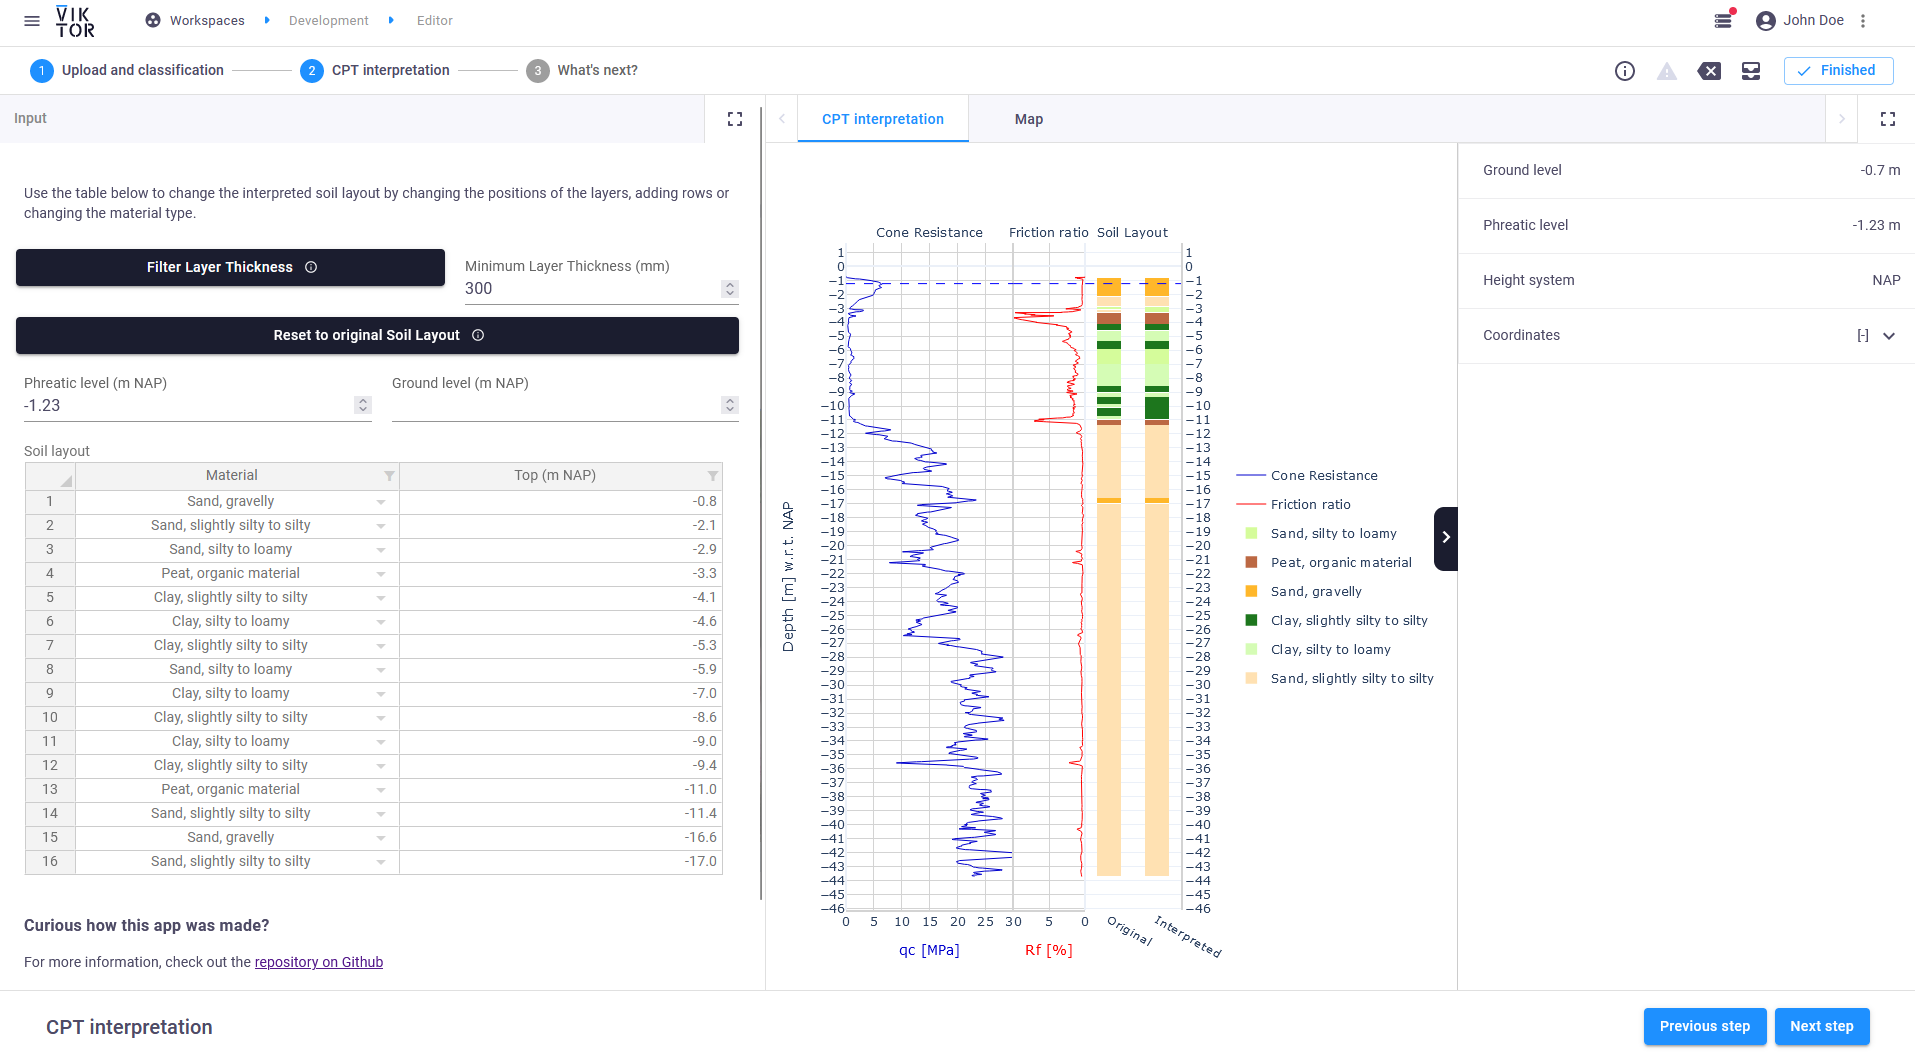
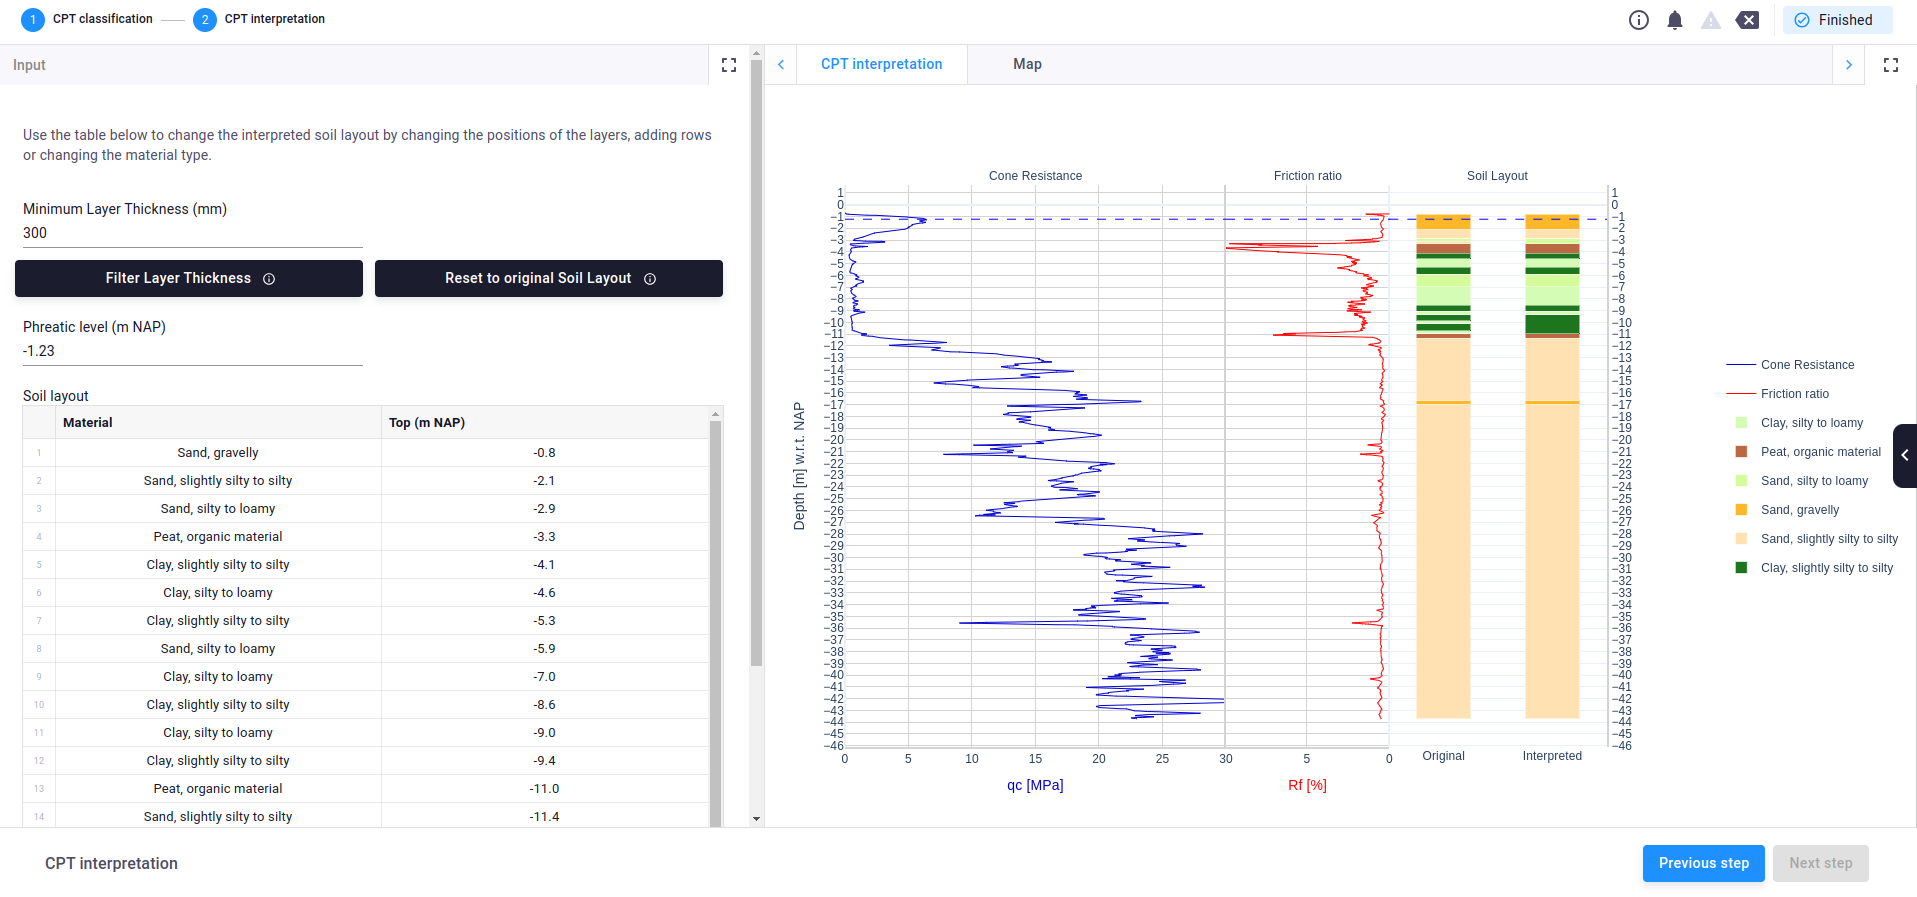
cleanup

diff --git a/app/controller.py b/app/controller.py
@@ -31,7 +31,7 @@ from viktor.views import (
     PlotlyAndDataView,
 )
 
-from .parametrization import CPTFileParametrization
+from .parametrization import Parametrization
 from .soil_layout_conversion_functions import (
     Classification,
     convert_input_table_field_to_soil_layout,
@@ -42,23 +42,23 @@ from .visualisation import visualise_cpt
 
 
 class CPTFileController(ViktorController):
-    """Controller class which acts as interface for the Sample entity type."""
-
     label = "CPT File"
-    parametrization = CPTFileParametrization(width=40)
+    parametrization = Parametrization(width=40)
 
     def classify_soil_layout(self, params, **kwargs) -> SetParametersResult:
         """Classify the CPT file when it is first uploaded"""
         if params.classification.get_sample_gef_toggle:
-            _file = self._get_sample_gef_file()
+            file = self._get_sample_gef_file()
         else:
             file_resource = params.classification.gef_file
             if not file_resource:
                 raise UserError("Upload and select a GEF file.")
-            _file = file_resource.file
-        cpt_file = GEFFile(_file.getvalue("ISO-8859-1"))
+            file = file_resource.file
+
+        cpt_file = GEFFile(file.getvalue("ISO-8859-1"))
         classification = Classification(params["classification"])
         results = classification.classify_cpt_file(cpt_file)
+
         return SetParametersResult(results)
 
     @staticmethod
@@ -97,11 +97,8 @@ class CPTFileController(ViktorController):
         headers = params.get("headers")
         if not headers:
             raise UserError("GEF file has no headers")
-        try:
-            x_coordinate, y_coordinate = params.x_rd, params.y_rd
-        except AttributeError:
-            x_coordinate, y_coordinate = headers.x_y_coordinates
 
+        x_coordinate, y_coordinate = headers.x_y_coordinates
         return DataGroup(
             ground_level_wrt_reference_m=DataItem(
                 "Ground level", headers.ground_level_wrt_reference_m or -999, suffix="m"
@@ -124,28 +121,29 @@ class CPTFileController(ViktorController):
         progress_message("Filtering thin layers from soil layout")
 
         # Create SoilLayout
-        bottom_of_soil_layout_user = params.get("bottom_of_soil_layout_user")
         classification = Classification(params.classification)
         soil_layout_user = convert_input_table_field_to_soil_layout(
             bottom_of_soil_layout_user=params["bottom_of_soil_layout_user"],
             soil_layers_from_table_input=params["soil_layout"],
             soils=classification.soil_mapping,
         )
+
         # filter the layer thickness
         soil_layout_user.filter_layers_on_thickness(
             params.cpt.min_layer_thickness, merge_adjacent_same_soil_layers=True
         )
+
         # convert to meter, and to the format for the input table
         soil_layout_user = convert_soil_layout_from_mm_to_meter(soil_layout_user)
         table_input_soil_layers = convert_soil_layout_to_input_table_field(soil_layout_user)
 
-        # send it to the parametrisation
         return SetParametersResult({"soil_layout": table_input_soil_layers})
 
     @staticmethod
     def reset_soil_layout_user(params, **kwargs) -> SetParametersResult:
         """Place the original soil layout (after parsing) in the table input."""
         progress_message("Resetting soil layout to original unfiltered result")
+
         # get the original soil layout from the hidden field
         soil_layout_original = SoilLayout.from_dict(params.soil_layout_original)
 
@@ -153,7 +151,7 @@ class CPTFileController(ViktorController):
         table_input_soil_layers = convert_soil_layout_to_input_table_field(
             convert_soil_layout_from_mm_to_meter(soil_layout_original)
         )
-        # send it to the parametrisation
+
         return SetParametersResult(
             {
                 "soil_layout": table_input_soil_layers,

diff --git a/app/parametrization.py b/app/parametrization.py
@@ -28,12 +28,13 @@ from viktor.parametrization import (
     NumberField,
     OptionField,
     OptionListElement,
-    Parametrization,
+    ViktorParametrization,
     SetParamsButton,
     Step,
     TableInput,
     Text,
     TextField,
+    LineBreak,
 )
 
 from .constants import (
@@ -56,10 +57,8 @@ def validate_step_1(params, **kwargs):
         raise UserError("Classify soil layout before proceeding.")
 
 
-class CPTFileParametrization(Parametrization):
-    """Defines the input fields in left-side of the web UI in the CPT_file entity (Editor)."""
-
-    classification = Step("Upload and classification", on_next=validate_step_1)
+class Parametrization(ViktorParametrization):
+    classification = Step("CPT classification", on_next=validate_step_1)
     classification.text_01 = Text(
         """# Welcome to the CPT interpretation app!
 
@@ -94,7 +93,6 @@ Select your preferred classification method.
         "Classification method",
         options=CLASSIFICATION_METHODS,
         default="robertson",
-        autoselect_single_option=True,
         variant="radio-inline",
         description="Robertson method: Robertson method, optimized for the dutch soil by Fugro. \n"
         "\n Table method: Custom classification.",
@@ -144,7 +142,7 @@ Select your preferred classification method.
 Classify the uploaded GEF file by clicking the button below. After classification you can proceed to the next step.
         """
     )
-    classification.classify_soil_layout_button = SetParamsButton("Classify soil layout", "classify_soil_layout")
+    classification.classify_soil_layout_button = SetParamsButton("Classify soil layout", method="classify_soil_layout")
 
     cpt = Step("CPT interpretation", views=["visualize_cpt", "visualize_map"])
     cpt.text = Text(
@@ -152,30 +150,29 @@ Classify the uploaded GEF file by clicking the button below. After classificatio
         "adding rows or changing the material type."
     )
 
-    cpt.filter_thin_layers = SetParamsButton(
-        "Filter Layer Thickness",
-        method="filter_soil_layout_on_min_layer_thickness",
-        flex=60,
-        description="Filter the soil layout to remove layers that are " "thinner than the minimum layer thickness",
-    )
     cpt.min_layer_thickness = NumberField(
         "Minimum Layer Thickness",
         suffix="mm",
         min=0,
         step=50,
         default=DEFAULT_MIN_LAYER_THICKNESS,
-        flex=40,
+        flex=50,
     )
-
+    cpt.l1 = LineBreak()
+    cpt.filter_thin_layers = SetParamsButton(
+        "Filter Layer Thickness",
+        method="filter_soil_layout_on_min_layer_thickness",
+        flex=50,
+        description="Filter the soil layout to remove layers that are " "thinner than the minimum layer thickness",
+    )
     cpt.reset_original_layers = SetParamsButton(
         "Reset to original Soil Layout",
         method="reset_soil_layout_user",
-        flex=100,
+        flex=50,
         description="Reset the table to the original soil layout",
     )
 
     cpt.ground_water_level = NumberField("Phreatic level", name="ground_water_level", suffix="m NAP", flex=50)
-    cpt.ground_level = NumberField("Ground level", name="ground_level", suffix="m NAP", flex=50)
     cpt.soil_layout = TableInput("Soil layout", name="soil_layout")
     cpt.soil_layout.name = OptionField("Material", options=DEFAULT_SOIL_NAMES)
     cpt.soil_layout.top_of_layer = NumberField("Top (m NAP)", num_decimals=1)

diff --git a/app/soil_layout_conversion_functions.py b/app/soil_layout_conversion_functions.py
@@ -93,7 +93,7 @@ def convert_input_table_field_to_soil_layout(
 
 
 def convert_soil_layout_to_input_table_field(soil_layout: SoilLayout) -> List[dict]:
-    """Converts a SoilLayout to the parametrisation representation (Field = InputTable)."""
+    """Converts a SoilLayout to the parametrization representation (Field = InputTable)."""
     return [
         {"name": layer.soil.properties.ui_name, "top_of_layer": layer.top_of_layer} for layer in soil_layout.layers
     ]

diff --git a/app/__init__.py b/app/__init__.py
@@ -14,4 +14,4 @@ SHALL THE AUTHORS OR COPYRIGHT HOLDERS BE LIABLE FOR ANY CLAIM, DAMAGES OR OTHER
 CONTRACT, TORT OR OTHERWISE, ARISING FROM, OUT OF OR IN CONNECTION WITH THE SOFTWARE OR THE USE OR OTHER DEALINGS IN THE
 SOFTWARE.
 """
-from .cpt_file.controller import CPTFileController as CPTFile
+from .controller import CPTFileController as CPTFile

diff --git a/.viktor-template/description.md b/.viktor-template/description.md
@@ -1,13 +1,22 @@
-This sample app shows show how to interpret a CPT (.gef) to a soil layout using a classification method of choice.
+This sample app shows how to interpret a Cone Penetration Test (CPT) file as soil layout using a classification method
+of choice:
+- Robertson - optimized for Dutch soil
+- Table method - custom classification
 
 The goal of this app is to demonstrate how the VIKTOR platform is used in the geotechnical engineering industry. This
-app is a simplified version of a type of app used by geotechnical engineers to analyse the soil layout. Soil layout 
-analyses are important for the construction industry, as many calculations rely on an accurate modelling of the soil. 
+app is a simplified version of similar apps used by geotechnical engineers to analyze soil layouts. These analyses are
+important for the construction industry, as many calculations rely on an accurate modelling of the soil.
+
 Soil layouts are used in processes such as:
 - soil bearing capacity calculations
 - pile drive predictions
 - designing structures that interact with the soil, such as quay wall, sheet piles, etc.
-- etc.
 
-This app can consist of a single editor with steps to guide the user. The image below is an example of a result of a cpt file interpretation. 
-On the left there is the input where the interpreted results can be adjusted manually. On the right the soil layer interpretation is shown with its data.
+This app guides the user through a stepwise process:
+
+1. Upload a .gef file
+2. Choose the classification method
+3. Classify the soil layout
+4. Visualize the CPT interpretation
+
+The interpretation results show the cone resistance, friction ratio, and soil layout over the depth of the CPT.

diff --git a/README.md b/README.md
@@ -15,7 +15,7 @@ On the left there is the input where the interpreted results can be adjusted man
 
 A published version of this app is available on [demo.viktor.ai](https://demo.viktor.ai/public/cpt-interpreter).
 
-![](resources/cpt_visualisation.png)
+![](.viktor-template/image.png)
 
 Here is an animation going through the steps: 
 - Step 1: Uploading a .gef file
@@ -23,7 +23,4 @@ Here is an animation going through the steps:
 - Step 3: Classifying the soil layout
 - Step 4: Interpreting the results
 
-![](resources/steps.gif)
-
-## App structure
-This is an editor-only app type.
+![](.viktor-template/demo.gif)
